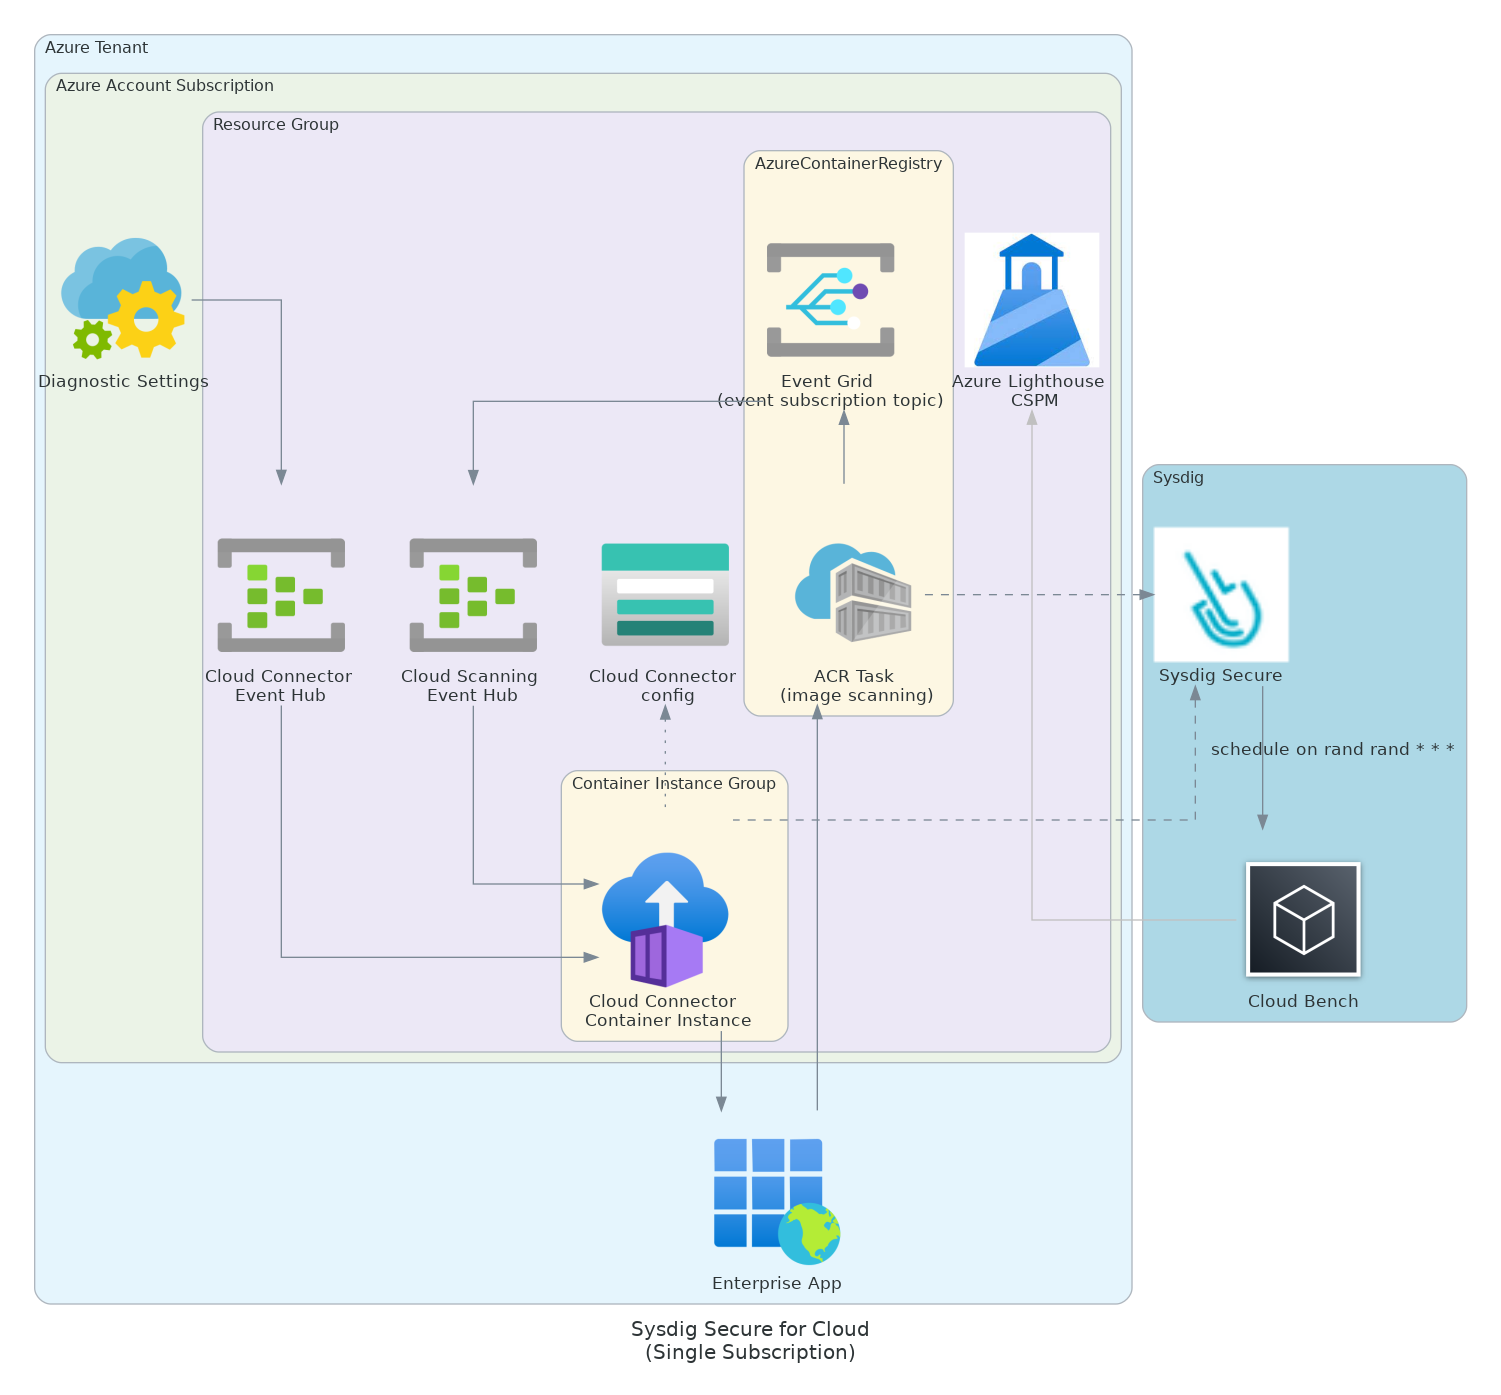
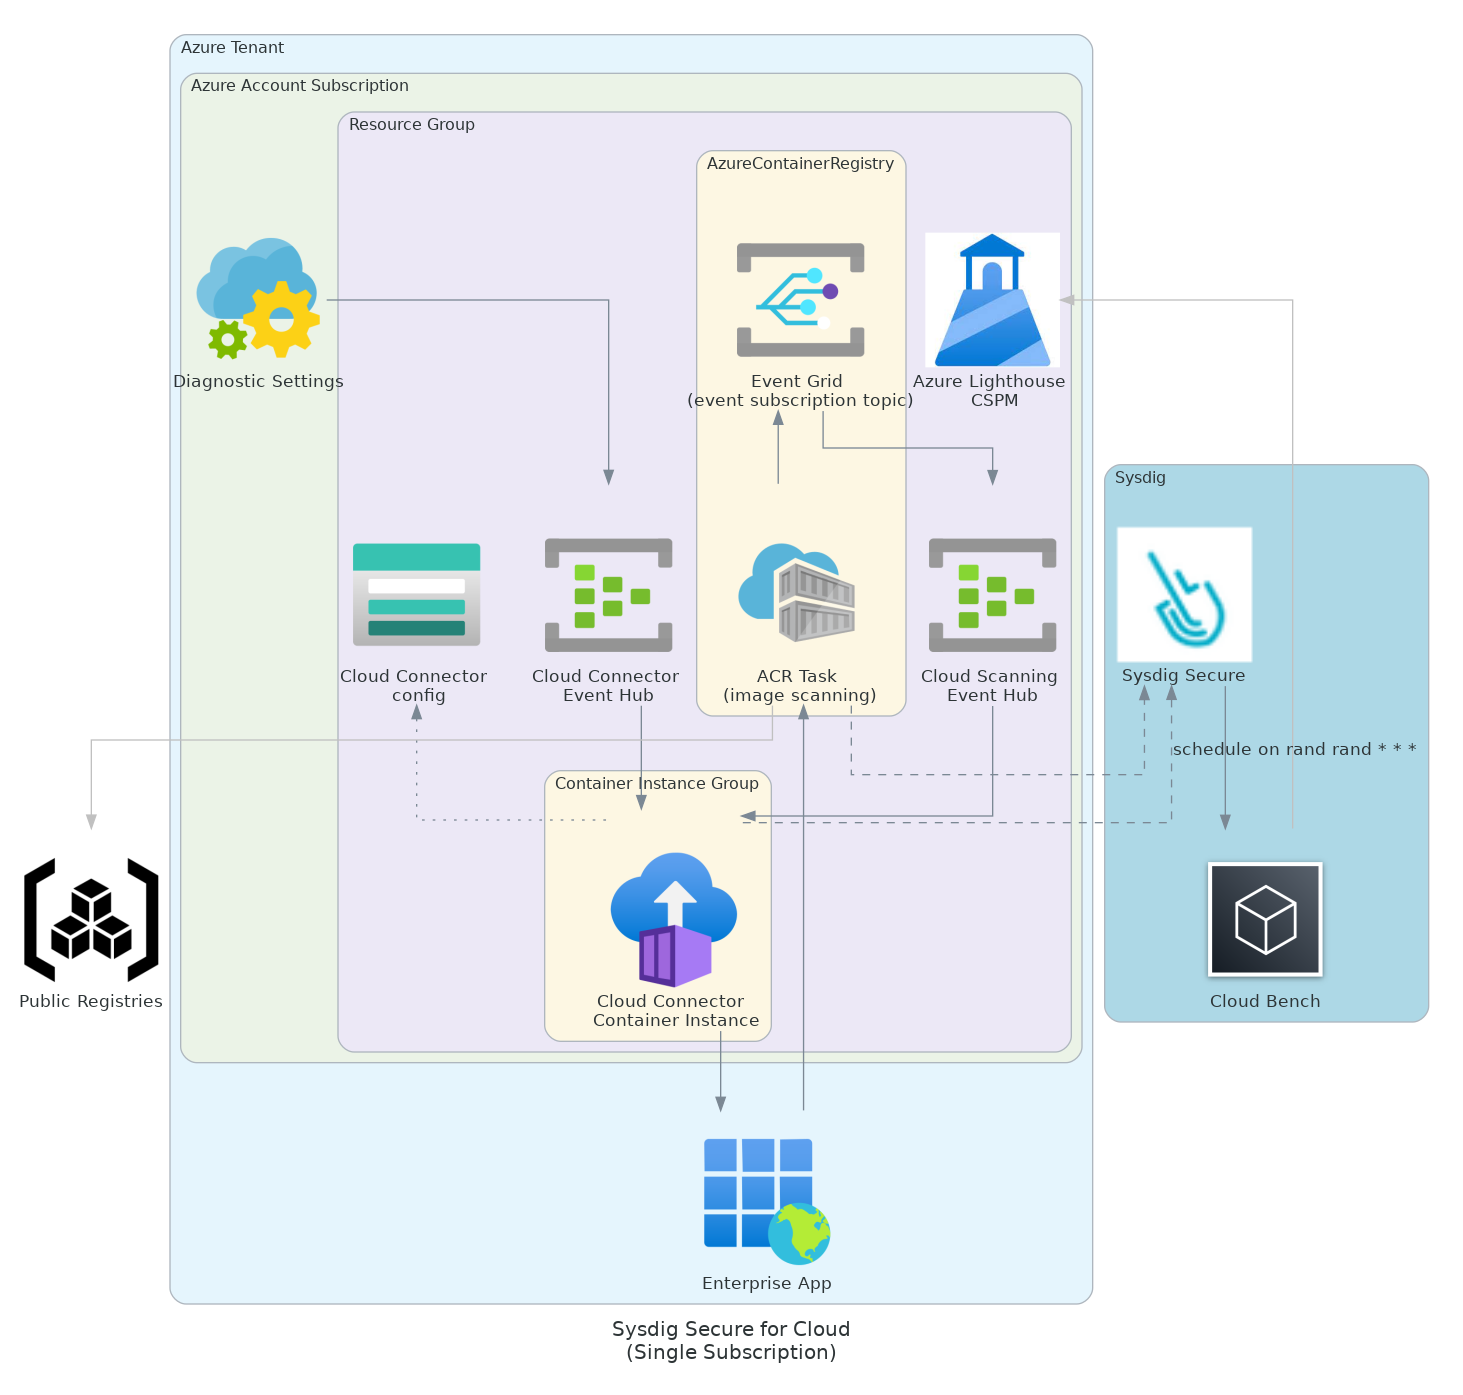
doc: add registry to diagrams

diff --git a/examples/tenant-subscriptions/diagram-tenant.py b/examples/tenant-subscriptions/diagram-tenant.py
@@ -25,6 +25,9 @@ color_non_important="gray"
 with Diagram("Sysdig Secure for Cloud\n(Tenant-Subscriptions)", graph_attr=diagram_attr, filename="diagram-tenant",
              show=True,
              direction="TB"):
+
+    public_registries = Custom("Public Registries","../../resources/diag-registry-icon.png")
+
     with Cluster("Azure Tenant"):
         app = EnterpriseApplications("Enterprise App")
 
@@ -84,3 +87,5 @@ with Diagram("Sysdig Secure for Cloud\n(Tenant-Subscriptions)", graph_attr=diagr
     sds << Edge(style="dashed") << cc
     lighthouse1 <<  Edge(color=color_non_important) << bench
     lighthouse2 <<  Edge(color=color_non_important) << bench
+
+    cregistry >> Edge(color=color_non_important) >> public_registries

diff --git a/examples/single-subscription/diagram-single.py b/examples/single-subscription/diagram-single.py
@@ -25,6 +25,7 @@ color_non_important="gray"
 with Diagram("Sysdig Secure for Cloud\n(Single Subscription)", graph_attr=diagram_attr, filename="diagram-single",
              show=True,
              direction="TB"):
+    public_registries = Custom("Public Registries","../../resources/diag-registry-icon.png")
 
     with Cluster("Azure Tenant"):
         app = EnterpriseApplications("Enterprise App")
@@ -67,3 +68,4 @@ with Diagram("Sysdig Secure for Cloud\n(Single Subscription)", graph_attr=diagra
     sds << Edge(style="dashed") << cc
     lighthouse <<  Edge(color=color_non_important) << bench
     cregistry >> Edge(style="dashed")  >> sds
+    cregistry >> Edge(color=color_non_important) >> public_registries
